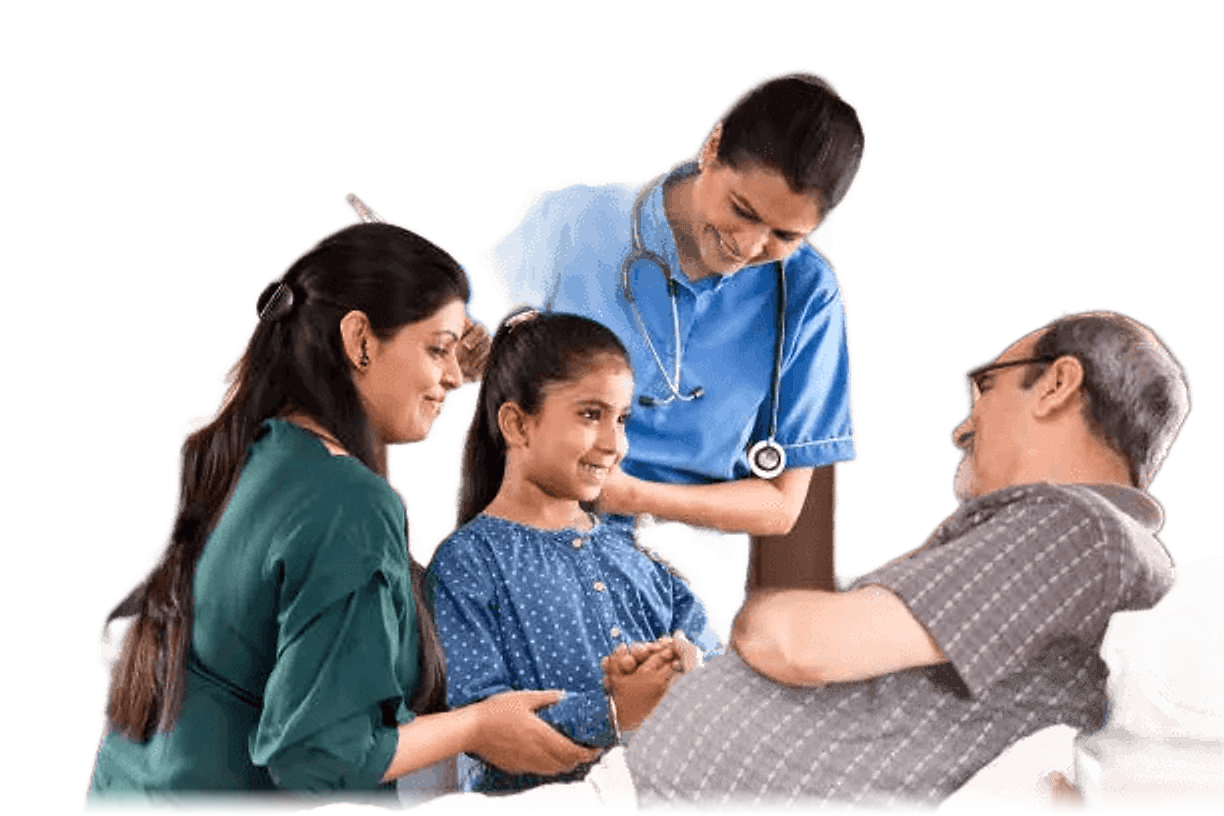
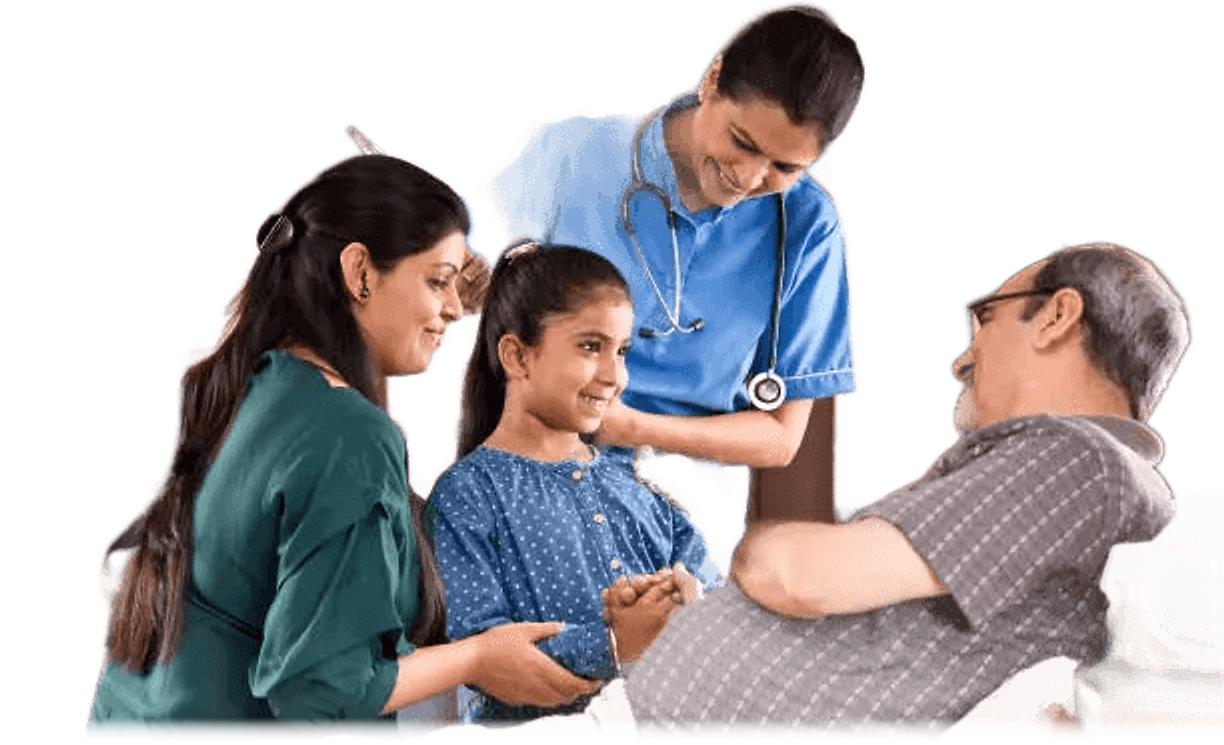
fix(typography): restore Lora serif font on headline, trim top transparent space on hero cutout and align with navbar text

diff --git a/src/components/Hero.tsx b/src/components/Hero.tsx
@@ -80,12 +80,12 @@ export const Hero: React.FC<HeroProps> = ({ t }) => {
 
           </div>
 
-          {/* Right Column: Hero Visual - Aligned UP with headline text, sleek proportions, seamlessly blended */}
-          <div className="lg:col-span-6 xl:col-span-6 relative flex items-start justify-center lg:justify-end w-full pt-1 sm:pt-2">
+          {/* Right Column: Hero Visual - Perfectly aligned UP with headline text and navbar level */}
+          <div className="lg:col-span-6 xl:col-span-6 relative flex items-start justify-center lg:justify-end w-full pt-0 lg:-mt-2 xl:-mt-3">
             <motion.div
-              initial={{ opacity: 0, y: 12 }}
+              initial={{ opacity: 0, y: 8 }}
               animate={{ opacity: 1, y: 0 }}
-              transition={{ duration: 0.6, ease: "easeOut" }}
+              transition={{ duration: 0.5, ease: "easeOut" }}
               className="relative w-full max-w-lg lg:max-w-xl flex items-start justify-center lg:justify-end"
             >
               {/* Soft, borderless atmospheric radial ambient aura that merges into page */}
@@ -98,7 +98,7 @@ export const Hero: React.FC<HeroProps> = ({ t }) => {
                   <img
                     src="/hero-family-cutout.png"
                     alt="Aapka Family Healthcare - Compassionate care for families"
-                    className="w-full h-auto max-h-[420px] sm:max-h-[460px] lg:max-h-[480px] object-contain drop-shadow-[0_12px_28px_rgba(15,23,42,0.07)]"
+                    className="w-full h-auto max-h-[400px] sm:max-h-[440px] lg:max-h-[460px] object-contain drop-shadow-[0_12px_28px_rgba(15,23,42,0.07)]"
                     loading="eager"
                     decoding="async"
                   />

diff --git a/index.html b/index.html
@@ -19,10 +19,10 @@
     <link rel="alternate" hreflang="hi" href="https://aapka.co.in/?lang=hi" />
     <link rel="alternate" hreflang="x-default" href="https://aapka.co.in/" />
 
-    <!-- Google Fonts: Plus Jakarta Sans & Inter -->
+    <!-- Google Fonts: Inter, Lora & Plus Jakarta Sans -->
     <link rel="preconnect" href="https://fonts.googleapis.com" />
     <link rel="preconnect" href="https://fonts.gstatic.com" crossorigin />
-    <link href="https://fonts.googleapis.com/css2?family=Plus+Jakarta+Sans:wght@400;500;600;700;800&family=Inter:wght@400;500;600;700&display=swap" rel="stylesheet" />
+    <link href="https://fonts.googleapis.com/css2?family=Inter:wght@400;500;600;700&family=Lora:ital,wght@0,400;0,500;0,600;0,700;1,400;1,500&family=Playfair+Display:ital,wght@0,500;0,600;0,700;1,500&family=Plus+Jakarta+Sans:wght@400;500;600;700;800&display=swap" rel="stylesheet" />
 
     <!-- Favicon & Icons -->
     <link rel="icon" type="image/png" href="/aapka-logo.png" />

diff --git a/src/index.css b/src/index.css
@@ -1,9 +1,9 @@
 @import "tailwindcss";
 
 @theme {
-  --font-sans: 'Plus Jakarta Sans', 'Inter', -apple-system, BlinkMacSystemFont, 'Segoe UI', Roboto, sans-serif;
-  --font-serif: 'Plus Jakarta Sans', 'Inter', -apple-system, BlinkMacSystemFont, 'Segoe UI', Roboto, sans-serif;
-  --font-display: 'Plus Jakarta Sans', -apple-system, BlinkMacSystemFont, 'Segoe UI', sans-serif;
+  --font-sans: 'Inter', 'Plus Jakarta Sans', -apple-system, BlinkMacSystemFont, 'Segoe UI', Roboto, sans-serif;
+  --font-serif: 'Lora', 'Playfair Display', Georgia, Cambria, 'Times New Roman', serif;
+  --font-display: 'Lora', Georgia, serif;
 }
 
 @layer base {
